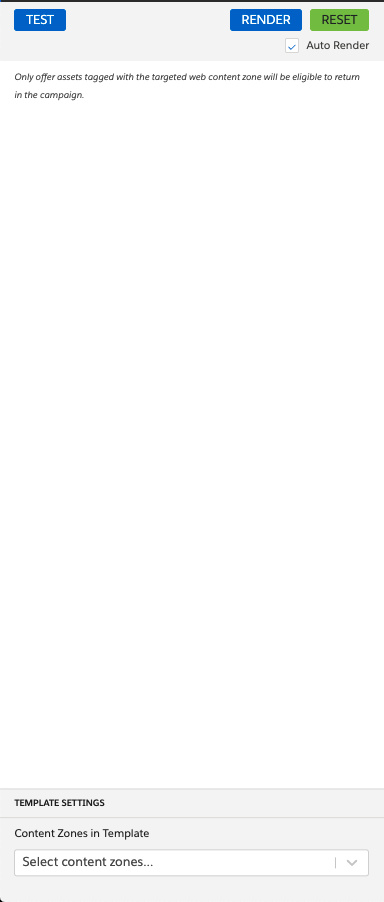
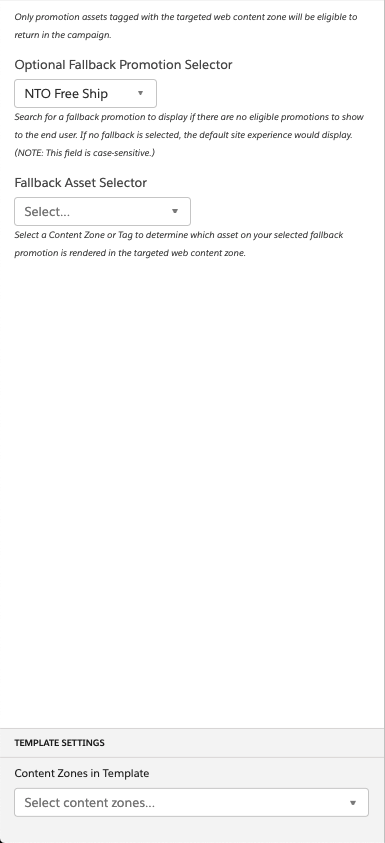
Update README and config image

diff --git a/einstein-decisions/README.md b/einstein-decisions/README.md
@@ -8,4 +8,6 @@ This Global Template inserts a Promotion, chosen by Einstein Decisions.
 
 <img src="config.png" alt="Einstein Decisions" width="350px"/>
 
-1. Content Zone
+1. Optional Fallback Promotion Selector
+2. Fallback Asset Selector (only shows if an Optional Fallback Promotion is selected)
+3. Content Zone
